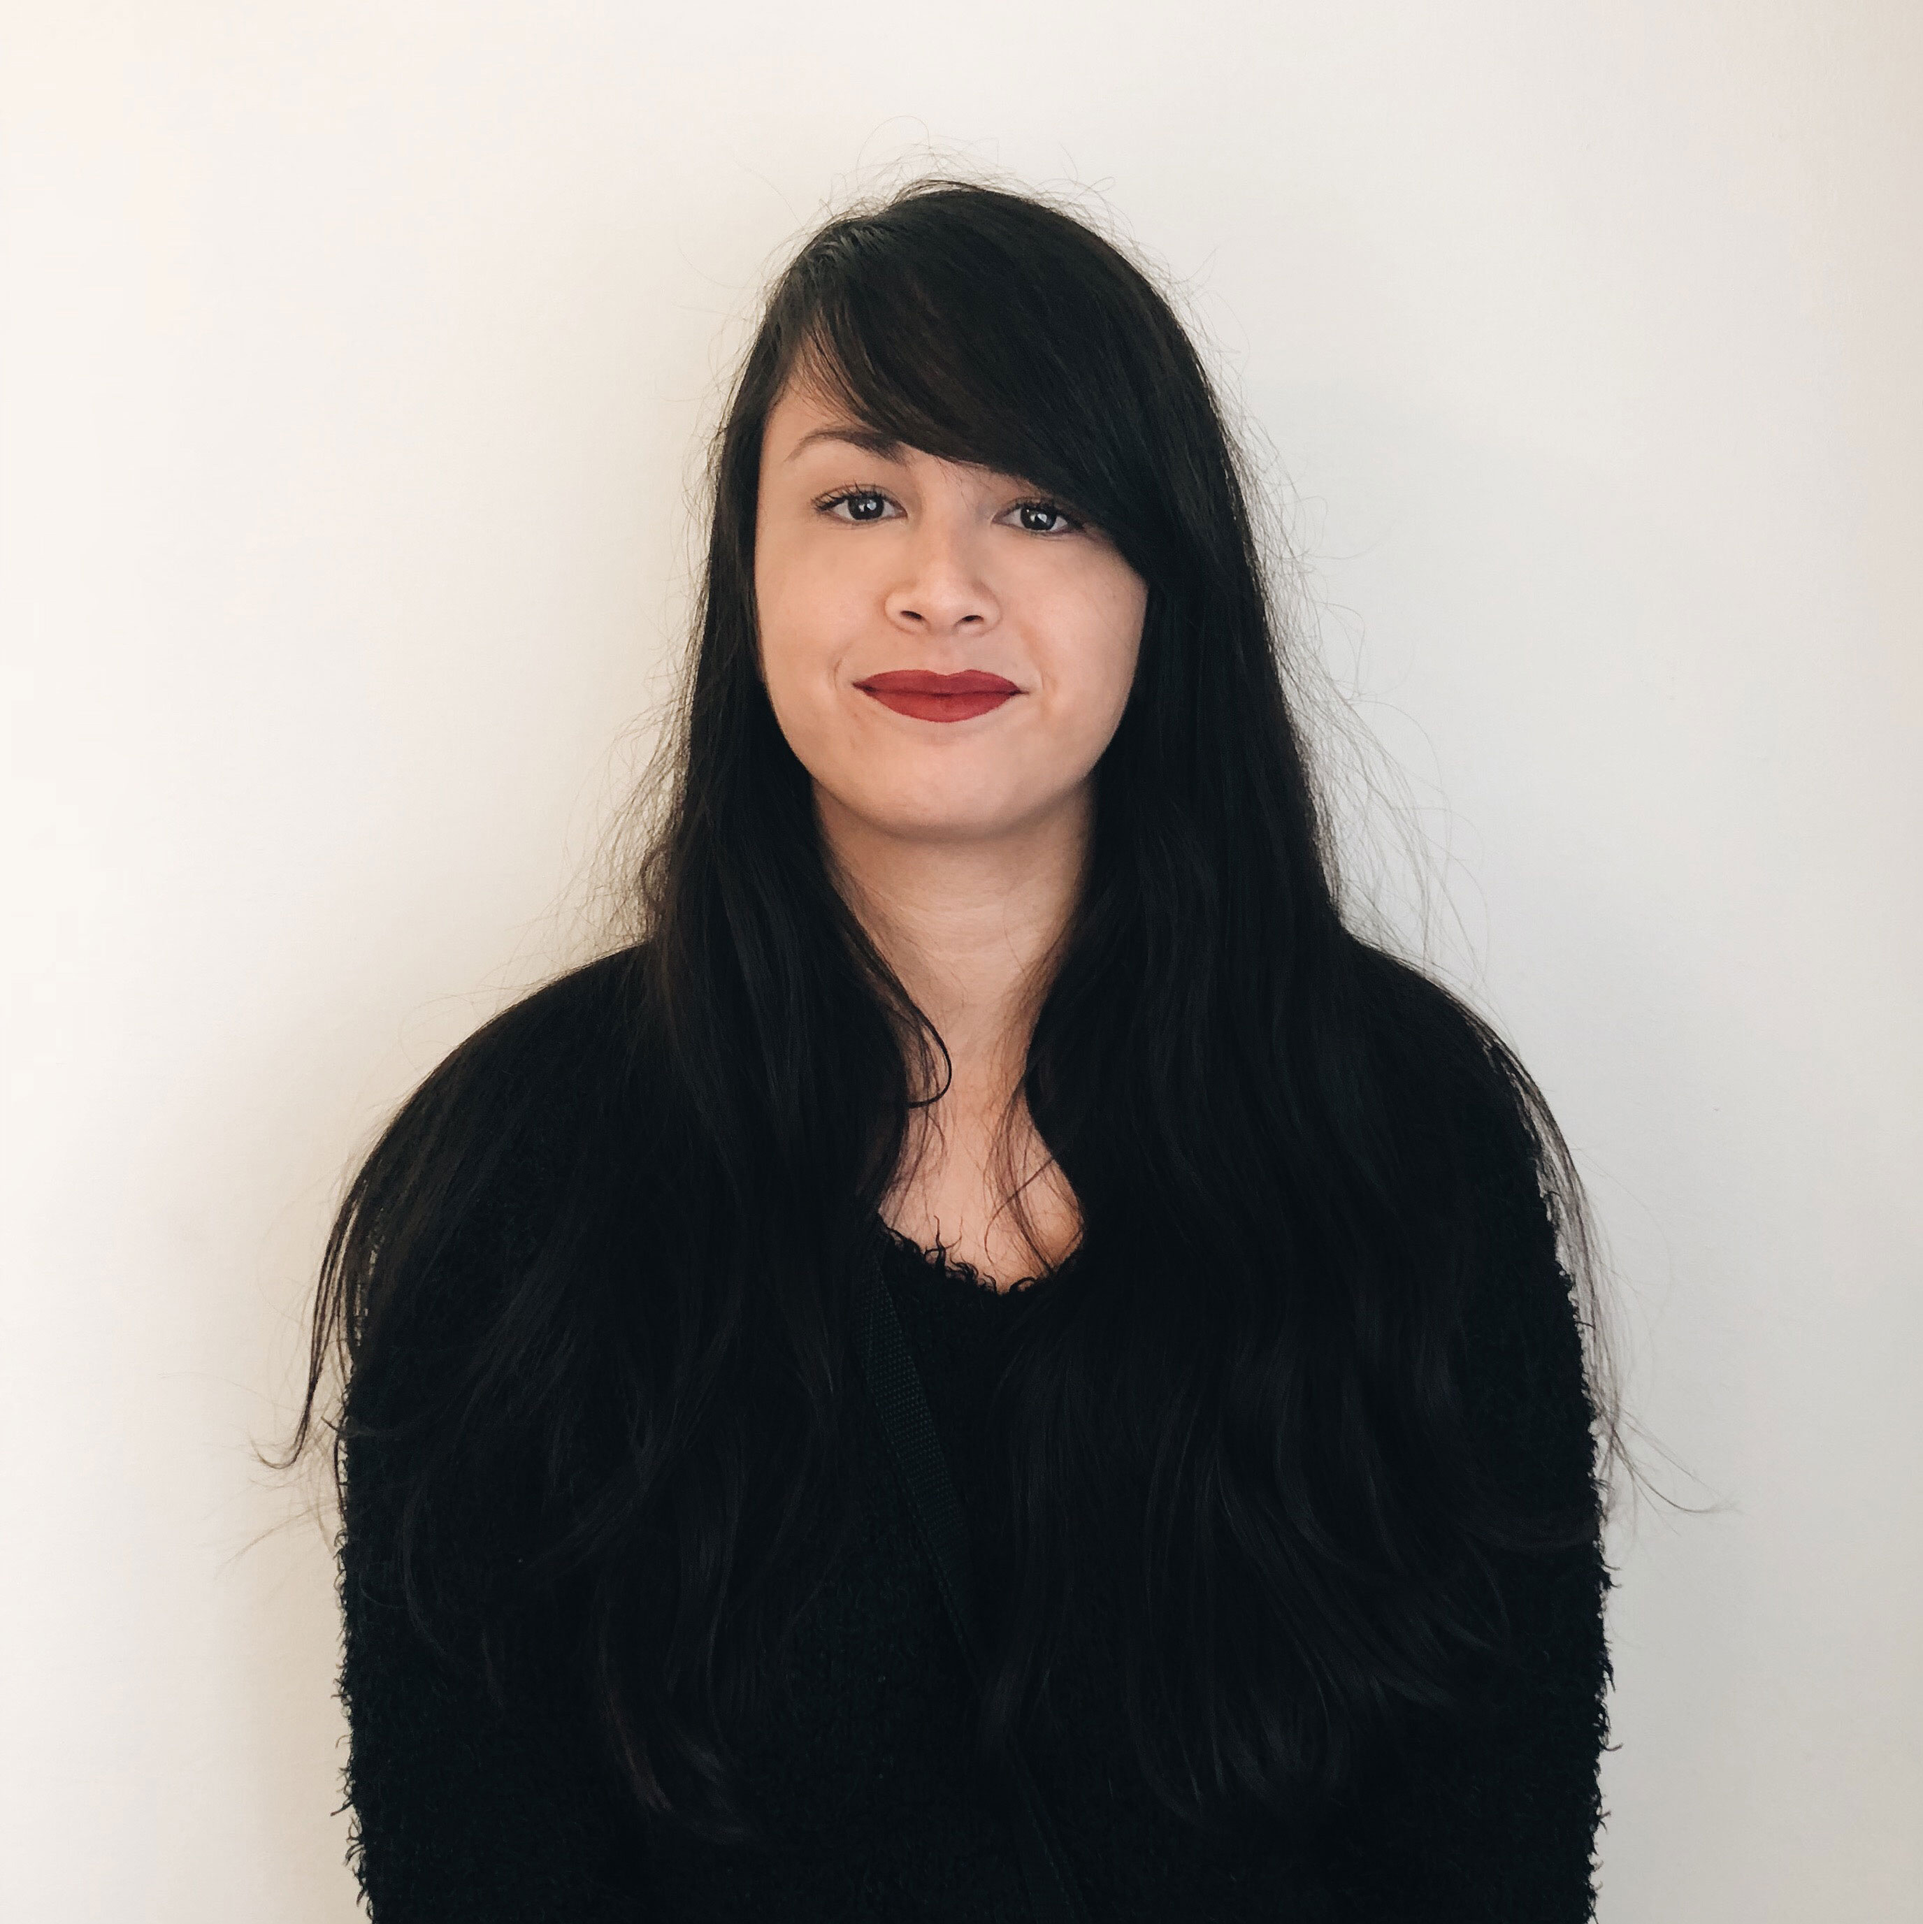
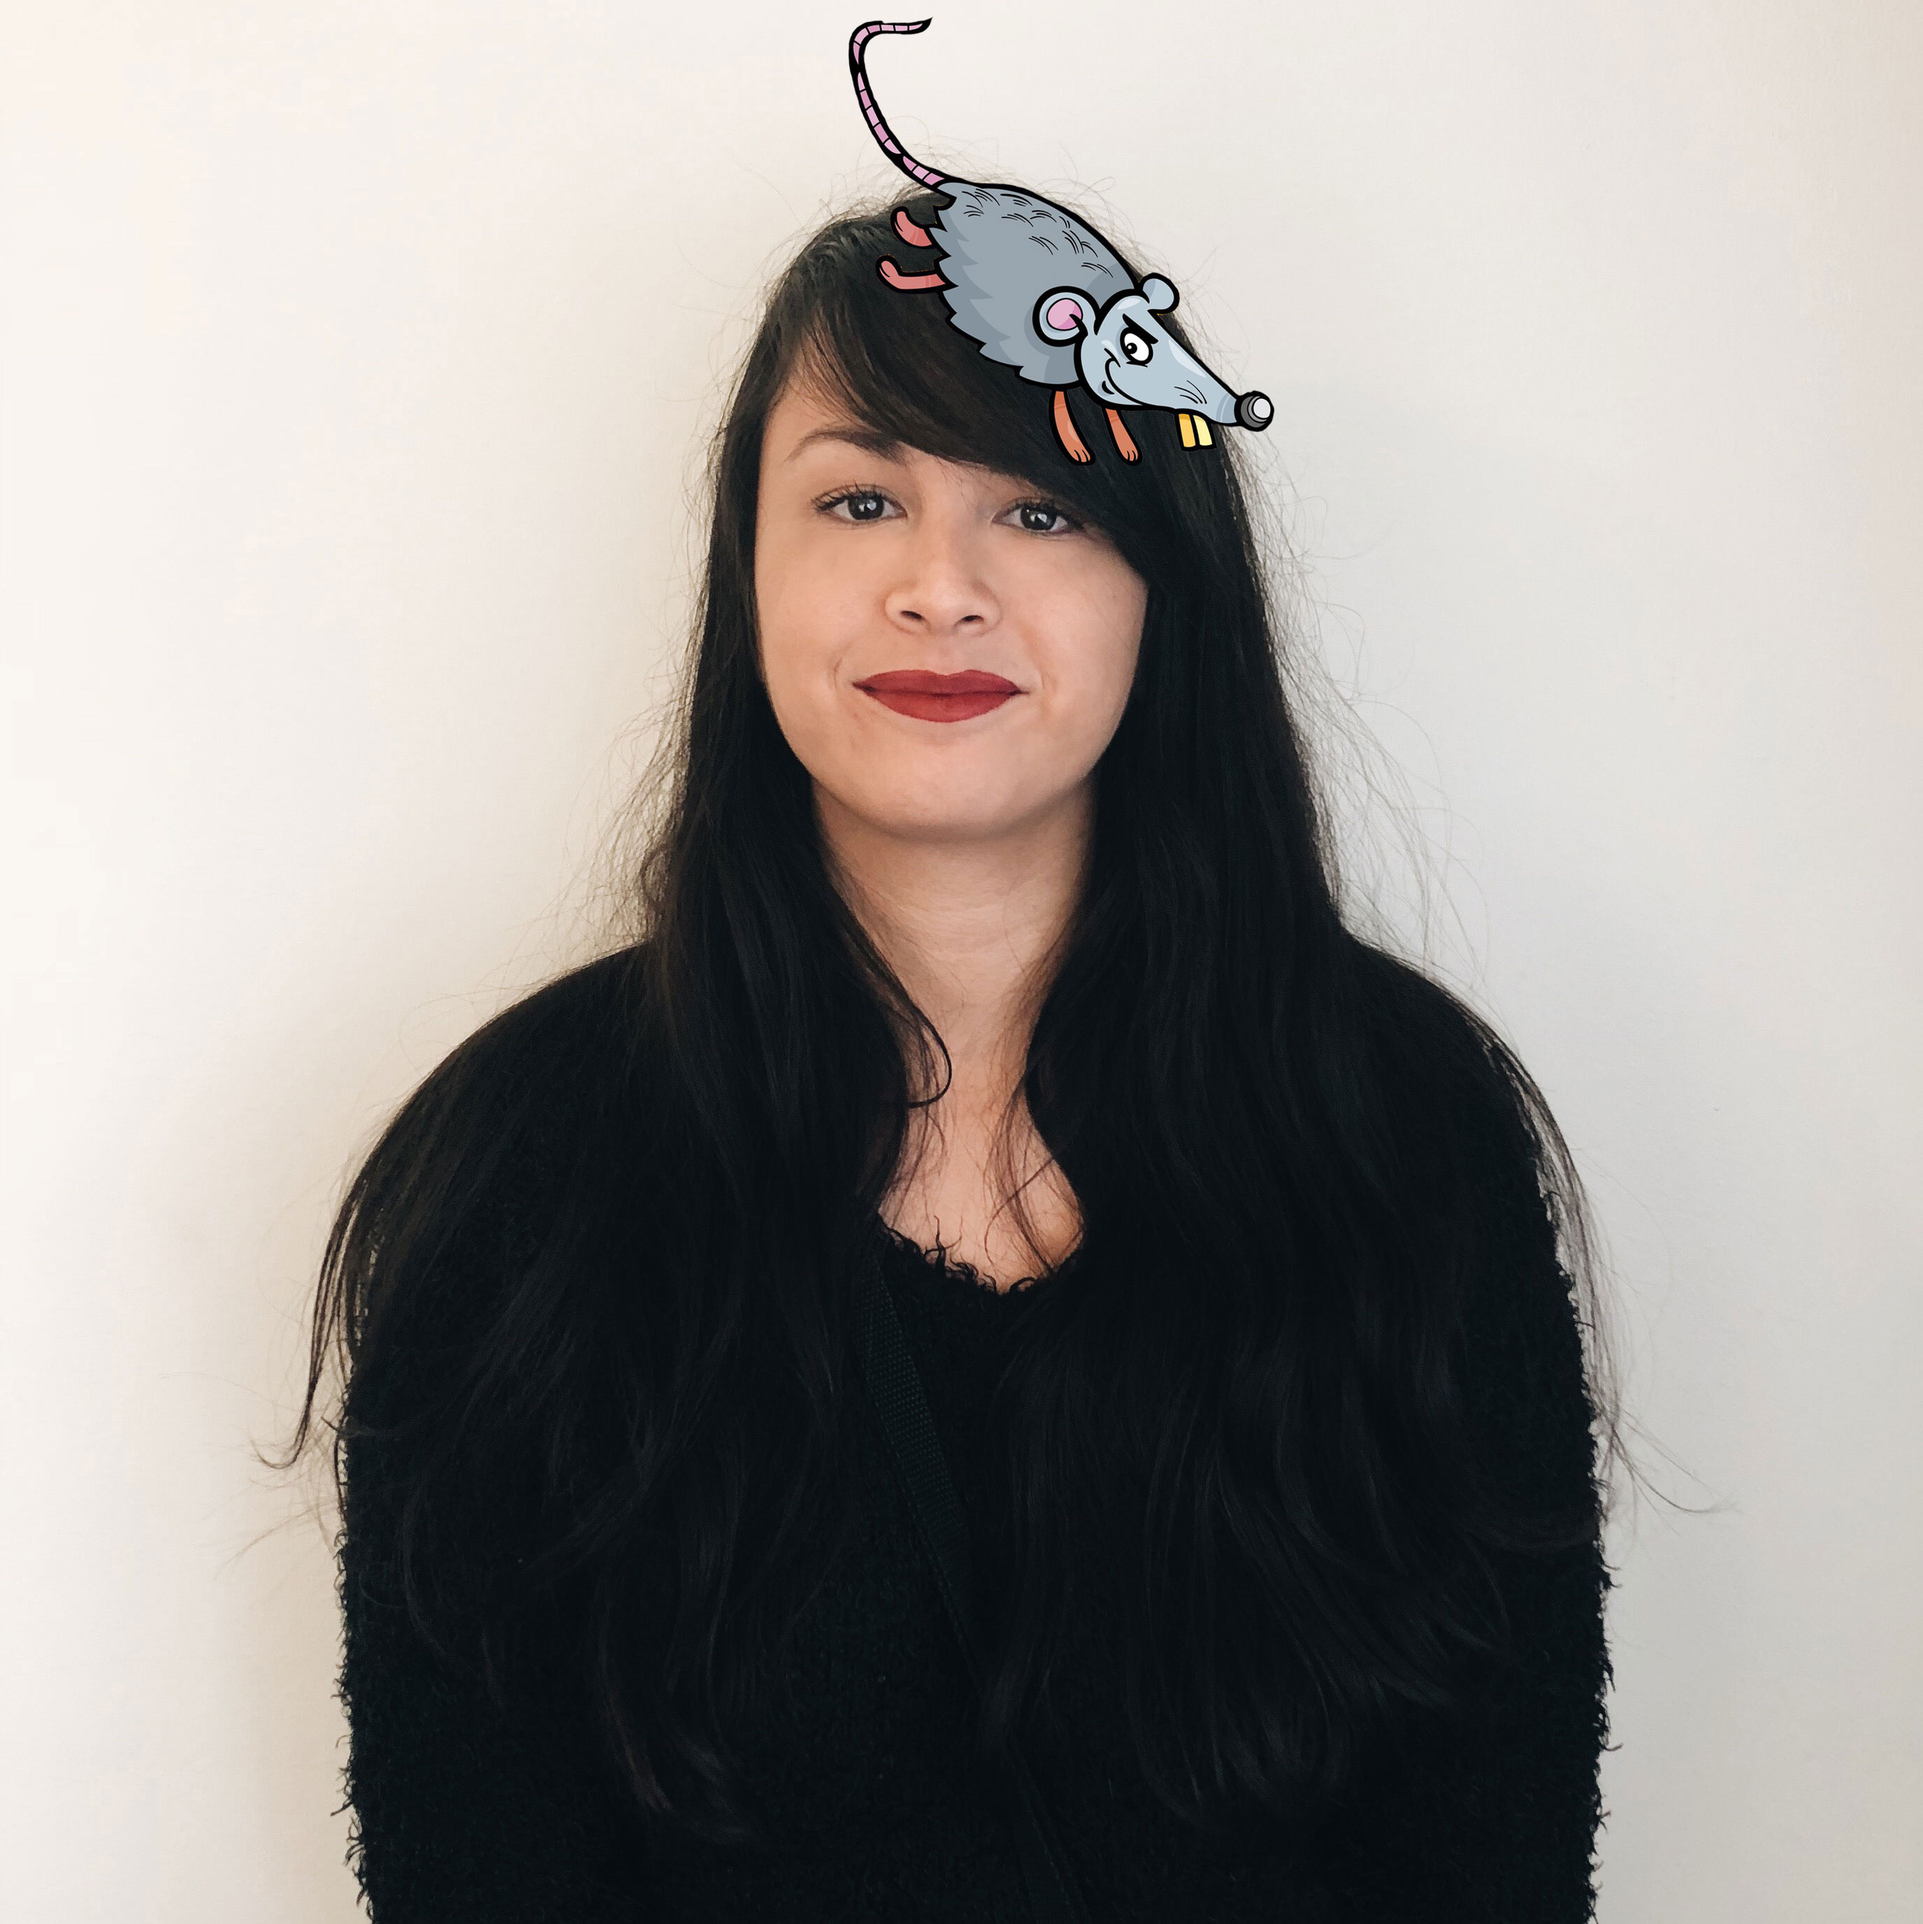
added rat to contact pictures

Changed region(s): [[0.4326, 0.0, 0.6798, 0.2499]]

diff --git a/html/contact.html b/html/contact.html
@@ -36,7 +36,7 @@
             <div class="contactcontainer">
         <div class="fotocontainer">
             <div class="namn">
-               <img src="../img/sabrina.jpg" alt="Smiley face" height="120" width="120">
+               <img src="../img/sabrina.jpg" alt="Smiley face" height="250" width="250">
                 <p>Sabrina Palm</p>
                
                 <h3>Game developer</h3>
@@ -47,7 +47,7 @@
             </div>    
                
              <div class="namn">
-                <img src="../img/johan.jpg" alt="Smiley face" height="120" width="120">
+                <img src="../img/johan.jpg" alt="Smiley face" height="250" width="250">
                  <p>Johan Augustsson</p>
                
                     <h3>Game developer</h3>
@@ -56,7 +56,7 @@
             </div>    
           
              <div class="namn">
-                <img src="../img/erik.jpg" alt="Smiley face" height="120" width="120">
+                <img src="../img/erik.jpg" alt="Smiley face" height="250" width="250">
                  <p>Erik Johansson</p>
            
                     <h3>Ace janitor</h3>
